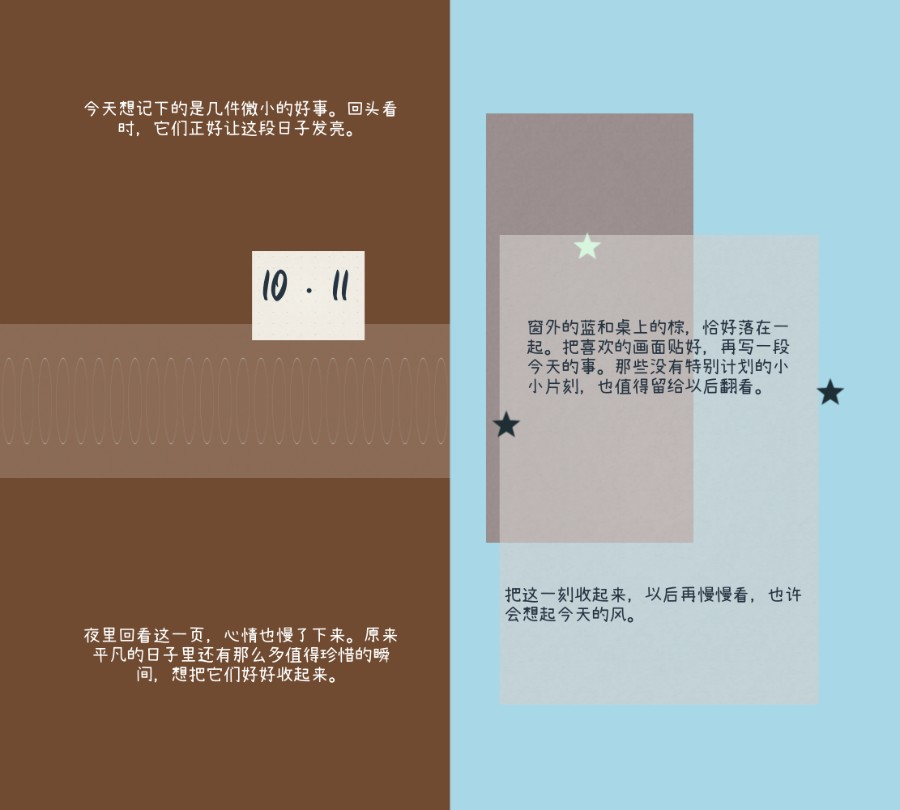
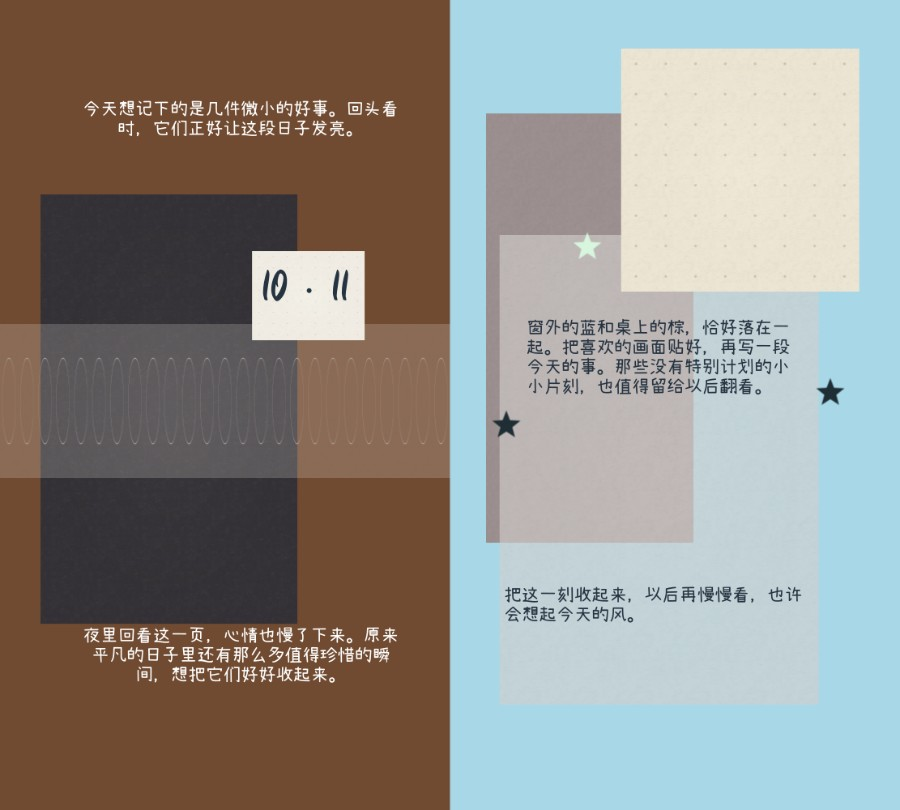
Keep editable default cards in all current templates

Changed region(s): [[0.0311, 0.216, 0.3422, 0.7716], [0.6844, 0.0617, 0.9644, 0.3704]]

diff --git a/creative-agent/library/six-spread-templates.js b/creative-agent/library/six-spread-templates.js
@@ -65,6 +65,22 @@ const colorFor=(template,node)=>{
  return p;
 };
 const accentColor=template=>template.id==='S02-青黄面包'?'#DE5C2C':template.id==='S05-灰黄甜点'?'#FFFFFF':template.id==='S06-白粉果实'?'#AF2929':'#EB9D43';
+// A photographed subject is a replaceable slot, not an optional part of the
+// layout. Empty-input templates retain its measured footprint as editable
+// paper; real materials still take precedence when they match the slot.
+const defaultScenePaper={
+ 'S01-苹果绿白':{'L-apple-photo':['#647E41','plain'],'R-black-photo':['#29312A','plain'],'R-fruit-basket':['#F3E9CE','dots']},
+ 'S02-青黄面包':{'L-bread-photo':['#C5995E','plain'],'R-fruit-basket':['#E6BA83','dots']},
+ 'S03-棕蓝爱心':{'L-heart-photo':['#343136','plain'],'R-cake-illustration':['#F0E8D6','dots']},
+ 'S04-粉黑百合':{'L-flower-photo':['#39383B','plain'],'R-lily':['#C9849A','plain']},
+ 'S05-灰黄甜点':{'L-vase-card':['#F0EBDF','dots'],'L-elephant-card':['#EEEDE7','plain'],'R-dessert-photo':['#F2E5D5','dots']},
+ 'S06-白粉果实':{'L-fruit-photo':['#D6D4CE','plain'],'L-flower':['#C99DB1','plain'],
+  'R-fig-card':['#F4EEE1','dots'],'R-flower':['#B33845','plain']}
+};
+function addDefaultScenePaper(operations,template,node,place,size,visual){
+ const [id]=node,[fill,pattern]=defaultScenePaper[template.id]?.[id]||[visual.fill||'#E9E3D8','plain'];
+ operations.push({op:'paper.add',id,place,size,style:{fill},texture:'subtle',pattern});
+}
 const lightness=hex=>{const n=parseInt(hex.slice(1),16);return ((((n>>16)&255)*.2126)+(((n>>8)&255)*.7152)+((n&255)*.0722))/255;};
 const textContent=(template,node,override)=>{
  if(override!==undefined)return String(override);
@@ -155,7 +171,9 @@ export function matchSixSpreadMaterials(templateId,profiles,{overrides={},calibr
    assignments:[...state.assignments,choice]
   }))).sort((a,b)=>b.score-a.score||b.used.length-a.used.length).slice(0,64);
  }
- const best=beam[0],critical=slots.filter(node=>photoRoles.test(node[2])&&!['small-irregular-flower'].includes(node[2])),missingCritical=critical.filter(node=>!best.assignments.find(a=>a.slot===node[0])?.asset).map(node=>node[0]);
+ const best=beam[0],critical=slots.filter(node=>photoRoles.test(node[2])&&
+  node[2]!=='small-irregular-flower'&&!(templateId==='S06-白粉果实'&&['L-flower','R-flower'].includes(node[0]))),
+  missingCritical=critical.filter(node=>!best.assignments.find(a=>a.slot===node[0])?.asset).map(node=>node[0]);
  return {templateId,assignments:best.assignments,used:best.used,unused:profiles.map(alias).filter(id=>!best.used.includes(id)),score:round(best.score/Math.max(1,slots.length)),compatible:missingCritical.length===0,missingCritical};
 }
 export function selectSixSpreadTemplate(profiles){
@@ -203,11 +221,10 @@ export function compileSixSpreadTemplate({templateId,assets=[],plan,texts={},pal
    if(choice.overlayText)addCardText(operations,template,node,texts,visual.fill||colorFor(template,node));
    continue;
   }
-  if(isMaterialSlot(template,node)){
-   if(photoRoles.test(role)&&role!=='small-irregular-flower'){
-    warnings.push(`${id} 缺少语义、尺寸都合适的输入素材`);
-    continue;
-   }
+  if(isMaterialSlot(template,node)&&photoRoles.test(role)){
+   addDefaultScenePaper(operations,template,node,place,{width:round(width),height:round(height),unit:'mm'},visual);
+   warnings.push(`${id} 缺少语义、尺寸都合适的输入素材，使用可编辑纸卡保留构图`);
+   continue;
   }
   if(/lace/.test(role)){addVectorLace(operations,id,page,box);continue;}
   if(/irregular-flower/.test(role)){

diff --git a/creative-agent/library/six-spread-slot-catalog.js b/creative-agent/library/six-spread-slot-catalog.js
@@ -43,7 +43,7 @@ const purposeById={
  'S03-棕蓝爱心':{'L-heart-photo':'左页中央完整主体，心形只是案例的一种轮廓','L-lace':'跨左页中线的透明花边或胶带','R-translucent-card':'右页连续的大张硫酸纸，文字写在同一纸面','R-cake-illustration':'右上方食物、花、物件或旅行主题方卡','R-star-top':'硫酸纸上缘星形点缀','R-star-right':'硫酸纸右缘星形点缀','R-star-left':'硫酸纸左缘星形点缀'},
  'S04-粉黑百合':{'L-pink-translucent':'左页浅色纸后面透出的粉色硫酸纸','L-writing-card':'左页正文主纸','L-flower-photo':'左页下方花或其他自然图案小卡','R-gray-back':'右页主纸下方露出的灰色硫酸纸','R-writing-card':'右页上方书写主纸','R-lily':'从页心跨到右页下缘的完整不规则主体'},
  'S05-灰黄甜点':{'L-grid-strip':'左页边缘纵向格纹连接带','L-vase-card':'左页上方主题小卡','L-elephant-card':'左页下方主题小卡','R-white-band':'右页中段横向衬底纸','R-dessert-photo':'右页中段的主题画面','R-top-card':'右页上方短标题卡','R-green-sticker':'压住上方标题卡的另一张小卡'},
- 'S06-白粉果实':{'L-number':'左页上方大数字','L-fruit-photo':'左页中央大幅主画面','L-vellum-overlay':'照片上方的半透明写字纸','R-fig-card':'右页上方方形主题卡','R-lower-paper':'右页下方大幅横线书写纸','R-mid-number':'右页中段大数字','R-flower':'压在下方书写纸边缘的小主体'}
+ 'S06-白粉果实':{'L-number':'左页上方大数字','L-fruit-photo':'左页中央大幅主画面','L-vellum-overlay':'主画面上方的半透明写字纸','L-flower':'压在主画面左下角的小幅花图卡','R-fig-card':'右页上方方形主题卡','R-lower-paper':'右页下方大幅横线书写纸','R-mid-number':'右页中段大数字','R-flower':'压在下方书写纸边缘的红色花图卡'}
 };
 
 export function describeSpreadSlot(templateId,node){
@@ -53,6 +53,6 @@ export function describeSpreadSlot(templateId,node){
  return {id,page,role,box,z,purpose:purposeById[templateId]?.[id]||spec.purpose,
   mode:spec.mode,acceptedMaterialRoles:[...spec.roles],
   sourceSize:'用户素材按原始毫米尺寸摆放，不缩放',
-  fallback:spec.mode==='material'?'关键主体不适配时提示换模板或换素材':spec.mode==='text'||spec.mode==='text-or-number'?'可编辑文字':'按模板生成可编辑对象',
+  fallback:spec.mode==='material'?'无合适素材时生成同尺寸可编辑纸卡，保留槽位与遮挡':spec.mode==='text'||spec.mode==='text-or-number'?'可编辑文字':'按模板生成可编辑对象',
   crop:'默认保留完整主体；只有纸张或边饰可按槽位安全裁切'};
 }

diff --git a/src/react-routes.jsx b/src/react-routes.jsx
@@ -320,7 +320,10 @@ function JournalTemplateVisual({item,side='template',db,accountId,detail=false})
 const templateRoleName={focal:'主视觉',secondary:'辅助图',background:'底纸',information:'信息区',
   accent:'装饰',decoration:'图形装饰',material:'素材位',marker:'标记',connector:'连接',divider:'分隔',title:'标题',text:'正文',
   paper:'纸张',photo:'照片',figure:'异形主体',tape:'胶带',strip:'纸条',circle:'圆形点缀',graphic:'图形',number:'数字',
-  'backing-paper':'底层纸张','generated-graphic':'图形装饰','writing-card':'书写卡','printed-card':'印刷卡'};
+  'backing-paper':'底层纸张','generated-graphic':'图形装饰','writing-card':'书写卡','printed-card':'印刷卡',
+  'large-scene-photo':'主画面','large-irregular-photo':'主画面','small-scene-photo':'小幅画面',
+  'irregular-photo':'主题画面','scene-photo':'主题画面','small-scene-card':'图像卡片',
+  'square-scene-card':'方形卡片','large-irregular-flower':'异形主体','irregular-subject':'异形主体'};
 const templateKindName={photo:'照片',sticker:'贴纸',paper:'纸张',card:'卡片',ticket:'票据',
   note:'便签',tape:'胶带',stamp:'印章',text:'文字',decoration:'装饰',figure:'异形主体',
   'plain-paper':'纯色纸','pattern-paper':'花纹纸','writing-card':'书写卡','printed-card':'印刷卡',
@@ -352,6 +355,7 @@ function JournalTemplateElements({composition,interactive=true}){
           onClick={()=>setActiveID(element.id)}>{element.id}</button>)}
       </div>
       {active?<div className="journal-template-slot-conditions"><strong>{active.id} · {templateRoleName[active.role]||active.role}</strong>
+        <p><b>默认对象</b>：{active.defaultInput||'按模板生成的可编辑对象'}</p>
         <p><b>必须满足</b>：{active.must?.join('；')||'保持此位置的对象作用与实物尺寸'}</p>
         <p><b>建议满足</b>：{active.prefer?.join('；')||'与相邻对象配色、叠放呼应'}</p>
       </div>:<p>点击画面对象或下方名称，查看可替代素材的条件。</p>}

diff --git a/creative-agent/library/current-templates.js b/creative-agent/library/current-templates.js
@@ -22,6 +22,19 @@ const roleNames={photo:'照片',figure:'不规则主体',accent:'装饰点缀',t
  'date-card':'日期卡片','support-card':'底层卡纸','sticker':'贴纸',clip:'夹子'};
 const label=role=>roleNames[role]||role.replaceAll('-',' ');
 const round=n=>Math.round(n*10)/10;
+const defaultForSingle=item=>{
+ if(item.defaultValue?.text!==undefined||item.defaultValue?.value!==undefined)return '可编辑文字';
+ if(item.defaultValue?.color)return '按模板颜色生成的可编辑对象';
+ if(item.id==='stamp-material')return '印章卡上的可编辑文字';
+ if(item.id==='top-clip')return '可编辑夹子图形';
+ return '按模板生成的可编辑对象';
+};
+const defaultForSpread=item=>{
+ if(item.mode==='material'||['photo','sticker'].includes(item.role)&&item.style?.motif)return '同尺寸可编辑纸卡';
+ if(['photo','sticker'].includes(item.role))return item.role==='photo'?'同尺寸可编辑纸卡':'可编辑图形点缀';
+ if(item.defaultInput==='editable-text'||['text','text-or-number'].includes(item.mode))return '可编辑文字';
+ return '按模板生成的可编辑对象';
+};
 const objectCondition=(item,templateId)=>{
  const accepts=item.accepts||item.acceptedMaterialRoles||[];
  const size=item.target?.sizeMm||item.targetMm||null;
@@ -44,6 +57,7 @@ const singleElements=id=>{
    !(o.role==='generated-graphic'&&Math.min(...o.target.sizeMm)<1)).map(o=>{
     const [w,h]=o.target.sizeMm,[cx,cy]=o.target.centerMm;
     return {id:o.id,role:o.role,page:'single',box:[(cx-w/2)/pw,(cy-h/2)/ph,w/pw,h/ph],
+      defaultInput:defaultForSingle(o),
       ...objectCondition(o,id)};
    })};
 };
@@ -52,7 +66,7 @@ const spreadElements=id=>{
  const elements=data.slots.map(s=>{
   const [x0,y0,x1,y1]=s.box;
   return {id:s.id,role:s.role,page:s.page,box:[(s.page==='right'?.5:0)+x0/200,y0/100,
-    (x1-x0)/200,(y1-y0)/100],...objectCondition(s,id)};
+    (x1-x0)/200,(y1-y0)/100],defaultInput:defaultForSpread(s),...objectCondition(s,id)};
  });
  return {pageMm:[data.leafMm[0]*2,data.leafMm[1]],elements};
 };

diff --git a/tests/current-templates.test.js b/tests/current-templates.test.js
@@ -40,3 +40,22 @@ test('only the fourteen measured templates enter current matching',()=>{
  assert.ok(draft.operations.some(op=>op.op==='page.update'));
  assert.throws(()=>compileCurrentTemplate({templateId:'center-1',assets:[asset]}),/新模板/);
 });
+
+test('all fourteen empty-input templates keep their measured objects as editable defaults',()=>{
+ const composites={'D146':{'stamp-material':['stamp-word'],'top-clip':['clip-ring','clip-body']}};
+ for(const template of listCurrentTemplates()){
+  const {operations}=compileCurrentTemplate({templateId:template.id});
+  const rendered=new Set(operations.flatMap(op=>[op.id,...(op.pieces||[]).map(piece=>piece.id)].filter(Boolean)));
+  for(const element of template.elements){
+   assert.ok(element.defaultInput,`${template.id}/${element.id} must describe its empty-input default`);
+   const parts=composites[template.id]?.[element.id]||[element.id];
+   assert.ok(parts.every(id=>rendered.has(id)),`${template.id}/${element.id} vanished from the empty-input cover`);
+  }
+  assert.equal(operations.some(op=>op.op==='material.add'),false,`${template.id} default must not need private art`);
+ }
+ const fruit=compileCurrentTemplate({templateId:'S06-白粉果实'}).operations;
+ for(const id of ['L-fruit-photo','L-flower','R-fig-card','R-flower'])
+  assert.equal(fruit.find(op=>op.id===id)?.op,'paper.add',`${id} should be an editable card without user art`);
+ assert.ok(!fruit.some(op=>op.op==='graphic.add'&&op.geometry?.kind==='flower'),
+  'the original flower photographs must not become synthetic flower stickers');
+});

diff --git a/tests/six-spread-templates.test.js b/tests/six-spread-templates.test.js
@@ -139,6 +139,9 @@ test('spread corrections keep distinct paper layers, edge accents and large nume
  assert.ok(s05.occlusion.some(([front,back])=>front==='R-green-sticker'&&back==='R-top-card'));
  assert.ok(compileTemplateDraft({templateId:s05.id}).operations.find(op=>op.id==='L-star-1').size.width>=5);
  const s06=compileTemplateDraft({templateId:'S06-白粉果实'}).operations;
+ const unmatched=matchSixSpreadMaterials('S06-白粉果实',[]);
+ assert.ok(!unmatched.missingCritical.includes('L-flower')&&!unmatched.missingCritical.includes('R-flower'),
+  'the two small flower-image cards are editable fallback details, not required focal materials');
  const numeral=s06.find(op=>op.op==='text.fit'&&op.target==='R-mid-number');
  assert.ok(numeral.place.at[0]+numeral.size.width<=SPREAD_LEAF_MM[0]);
  assert.ok(numeral.fit.maxFontSizePt>=45);

diff --git a/docs/TEMPLATE_CREATION_WORKFLOW.md b/docs/TEMPLATE_CREATION_WORKFLOW.md
@@ -47,6 +47,8 @@
 
 记录素材画像时至少包含原始宽高毫米、图像可见边界/透明区、外形类别、主色与印刷内容、可写面积、主体是否能安全裁切、适合的槽位角色和主题标签。匹配先看角色与物理尺寸，再看内容/色彩和可读性；主照片/大件优先，小装饰最后选。一个位置缺少合适实物时，可用**可编辑的基础纸/字/图形**完成结构；不要临时画丑的仿制贴纸来伪装原素材。区分“完整结构已有默认对象”和“必须用真实物件但缺素材”两种缺位。
 
+空素材的抽象模板也应保留每个量测槽位。照片、图像卡和贴纸缺少实物时，按原框与层级放一张可编辑纸卡；有合适素材时才用实物替换。先核对原图中的装饰是否其实是带图像的矩形卡片，再决定默认形状，不能把卡片误画成花形等仿制贴纸。逐模板检查“槽位 ID → 默认场景对象 ID”，复合对象可对应多个可编辑子对象。
+
 ## 文字、纸张与层次的检查
 
 文字与数字应从原成品判断视觉等级。正文当前模板常用 **10.5 pt 作为起点**，不是全局固定值；标题、日期和构图数字要按源图的视觉比例设置，尤其不要默认缩成正文大小。记录字块位置、宽度、行距、对齐、角度及跨区域关系。文字可以写在纸上、照片可读区或页面底色上，不能因为工具方便就给每段话单贴一张孤立白纸。短标题、日期、字幕、英文小字分别检查是否缺失、过小或错位。
